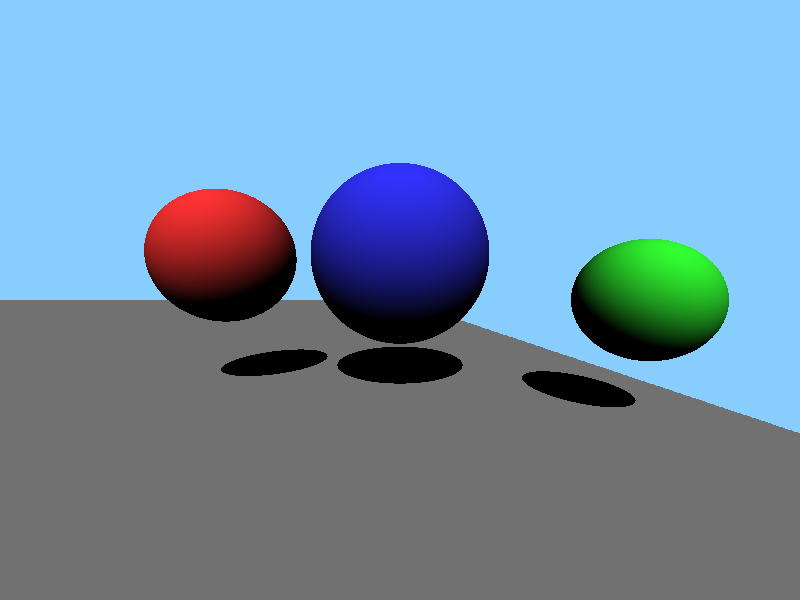
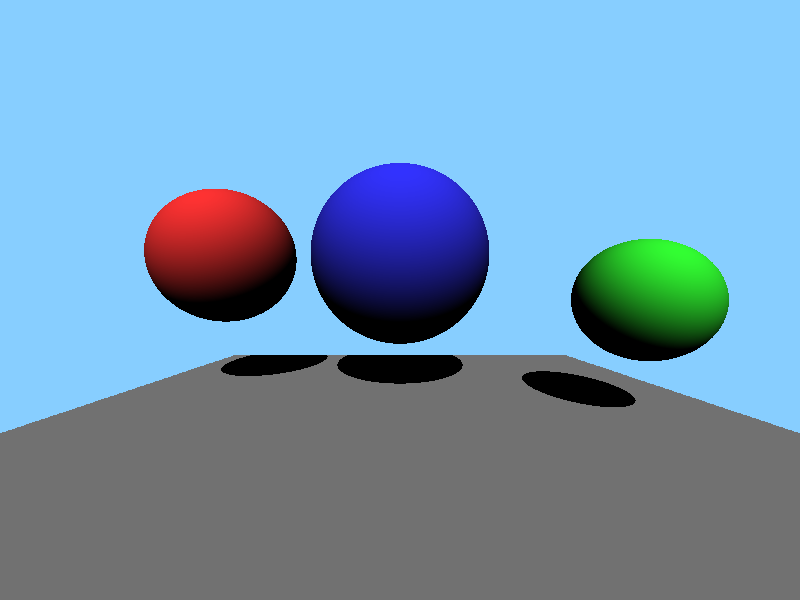
added new node trait functions

Changed region(s): [[0.0, 0.48, 0.6875, 0.72]]

diff --git a/src/plane.rs b/src/plane.rs
@@ -9,6 +9,7 @@ pub struct Plane {
     size: usize,
     pub name: String,
     pub frame_transform: Matrix4<f64>,
+    pub world_transform: Matrix4<f64>,
     pub origin: Point3<f64>,
     pub normal: Vector3<f64>,
     pub color: Color,
@@ -22,6 +23,7 @@ impl Plane {
             size: 0,
             name: name,
             frame_transform: transform,
+            world_transform: transform,
             origin: origin,
             normal: normal,
             color: color,
@@ -65,7 +67,7 @@ impl Node for Plane {
                 let hit_point = ray.origin + (ray.direction * distance);
                 let l = hit_point.to_vec() - self.origin.to_vec();
                 //let l = l.magnitude();
-                if l.x < 4.0 && l.y < 4.0 && l.z < 4.0 {
+                if l.x.abs() < 6.0 && l.y.abs() < 6.0 && l.z.abs() < 6.0 {
                     return Some((distance, normal));
                 }
             }
@@ -76,4 +78,12 @@ impl Node for Plane {
     fn get_color(&self) -> Color {
         return self.color.copy();
     }
+
+    fn get_world_transform(&self) -> Matrix4<f64> {
+        return self.world_transform;
+    }
+
+    fn set_world_transform(&mut self, transform: Matrix4<f64>) -> () {
+        self.world_transform = transform;
+    }    
 }

diff --git a/src/light.rs b/src/light.rs
@@ -9,6 +9,7 @@ pub struct Light {
     size: usize,
     pub name: String,
     pub frame_transform: Matrix4<f64>,
+    pub world_transform: Matrix4<f64>,
     pub direction: Vector3<f64>,
     pub color: Color,
     pub intensity: f32,
@@ -22,6 +23,7 @@ impl Light {
             size: 0,
             name: name,
             frame_transform: transform,
+            world_transform: transform,
             direction: direction,
             color: color,
             intensity: intensity,
@@ -35,6 +37,7 @@ impl Light {
             size: 0,
             name: "empty".to_string(),
             frame_transform: Matrix4::from_translation(Vector3::new(0.0, 0.0, -5.0)),
+            world_transform: Matrix4::from_translation(Vector3::new(0.0, 0.0, -5.0)),
             direction: Vector3::new(0.0, 0.0, 1.0),
             color: Color::new_rgb(0, 0, 0),
             intensity: 0.0,
@@ -74,5 +77,13 @@ impl Node for Light {
 
     fn get_color(&self) -> Color {
         return self.color.copy();
+    }
+
+    fn get_world_transform(&self) -> Matrix4<f64> {
+        return self.world_transform;
+    }
+
+    fn set_world_transform(&mut self, transform: Matrix4<f64>) -> () {
+        self.world_transform = transform;
     }
 }

diff --git a/src/camera_node.rs b/src/camera_node.rs
@@ -10,6 +10,7 @@ pub struct CameraNode {
     pub name: String,
     //center: Point3<f64>,
     pub frame_transform: Matrix4<f64>,
+    pub world_transform: Matrix4<f64>,
     pub viewing_direction: Vector3<f64>,
     pub plane_point: Vector3<f64>,          
     pub image_width: usize,
@@ -26,6 +27,7 @@ impl CameraNode {
             size: 0,
             name: name,
             frame_transform: transform,
+            world_transform: transform,
             viewing_direction: direction,
             plane_point: Vector3::new(0.0, 0.0, 0.0),
             image_width: width,
@@ -68,5 +70,13 @@ impl Node for CameraNode {
 
     fn get_color(&self) -> Color {
         return Color::new(0.0, 0.0, 0.0);
+    }
+
+    fn get_world_transform(&self) -> Matrix4<f64> {
+        return self.world_transform;
+    }
+
+    fn set_world_transform(&mut self, transform: Matrix4<f64>) -> () {
+        self.world_transform = transform;
     }
 }

diff --git a/src/node_3d.rs b/src/node_3d.rs
@@ -9,6 +9,7 @@ pub struct Node3D {
     size: usize,
     pub name: String,
     pub frame_transform: Matrix4<f64>,
+    pub world_transform: Matrix4<f64>,
 }
 
 impl Node3D {
@@ -19,6 +20,7 @@ impl Node3D {
             size: 0,
             name: name,
             frame_transform: transform,
+            world_transform: transform,
         }
     }
 
@@ -29,6 +31,7 @@ impl Node3D {
             size: 0,
             name: "".to_string(),
             frame_transform: Matrix4::from_scale(0.0),
+            world_transform: Matrix4::from_scale(0.0),
         }
     }
 }
@@ -65,5 +68,13 @@ impl Node for Node3D {
 
     fn get_color(&self) -> Color {
         return Color::new(0.0, 0.0, 0.0);
+    }
+
+    fn get_world_transform(&self) -> Matrix4<f64> {
+        return self.world_transform;
+    }
+
+    fn set_world_transform(&mut self, transform: Matrix4<f64>) -> () {
+        self.world_transform = transform;
     }
 }

diff --git a/src/sphere_node.rs b/src/sphere_node.rs
@@ -9,6 +9,7 @@ pub struct SphereNode {
     size: usize,
     pub name: String,
     pub frame_transform: Matrix4<f64>,
+    pub world_transform: Matrix4<f64>,
     //pub center: Point3<f64>,
     pub radius: f64,
     pub color: Color,
@@ -22,6 +23,7 @@ impl SphereNode {
             size: 0,
             name: name,
             frame_transform: transform,
+            world_transform: transform,
             radius: radius,
             color: color,
         }
@@ -83,5 +85,13 @@ impl Node for SphereNode {
 
     fn get_color(&self) -> Color {
         return self.color.copy();
+    }
+
+    fn get_world_transform(&self) -> Matrix4<f64> {
+        return self.world_transform;
+    }
+
+    fn set_world_transform(&mut self, transform: Matrix4<f64>) -> () {
+        self.world_transform = transform;
     }
 }

diff --git a/src/node.rs b/src/node.rs
@@ -1,7 +1,7 @@
 use std::rc::Rc;
 use std::cell::RefCell;
 use crate::{Ray, Color};
-use cgmath::Vector3;
+use cgmath::{Vector3, Matrix4};
 
 pub trait Node {
     fn get_parent(&self) -> Option<Rc<RefCell<Node>>>;
@@ -10,4 +10,6 @@ pub trait Node {
     fn get_color(&self) -> Color;
     fn get_size(&self) -> usize;
     fn intersect(&self, ray: &Ray) -> Option<(f64, Vector3<f64>)>;
+    fn get_world_transform(&self) -> Matrix4<f64>;
+    fn set_world_transform(&mut self, transform: Matrix4<f64>) -> ();
 }

diff --git a/src/main.rs b/src/main.rs
@@ -83,8 +83,8 @@ fn main() {
 
     let plane = Rc::new(RefCell::new(Plane::new(
         "Plane".to_string(),
-        Matrix4::from_translation(Vector3::new(2.0, -2.0, -5.0)),
-        Point3::new(2.0, -2.0, -5.0),
+        Matrix4::from_translation(Vector3::new(0.0, -2.0, -5.0)),
+        Point3::new(0.0, -2.0, -5.0),
         Vector3::new(0.0, -1.0, 0.0),
         Color::new_rgb(160, 160, 160)
     )));
